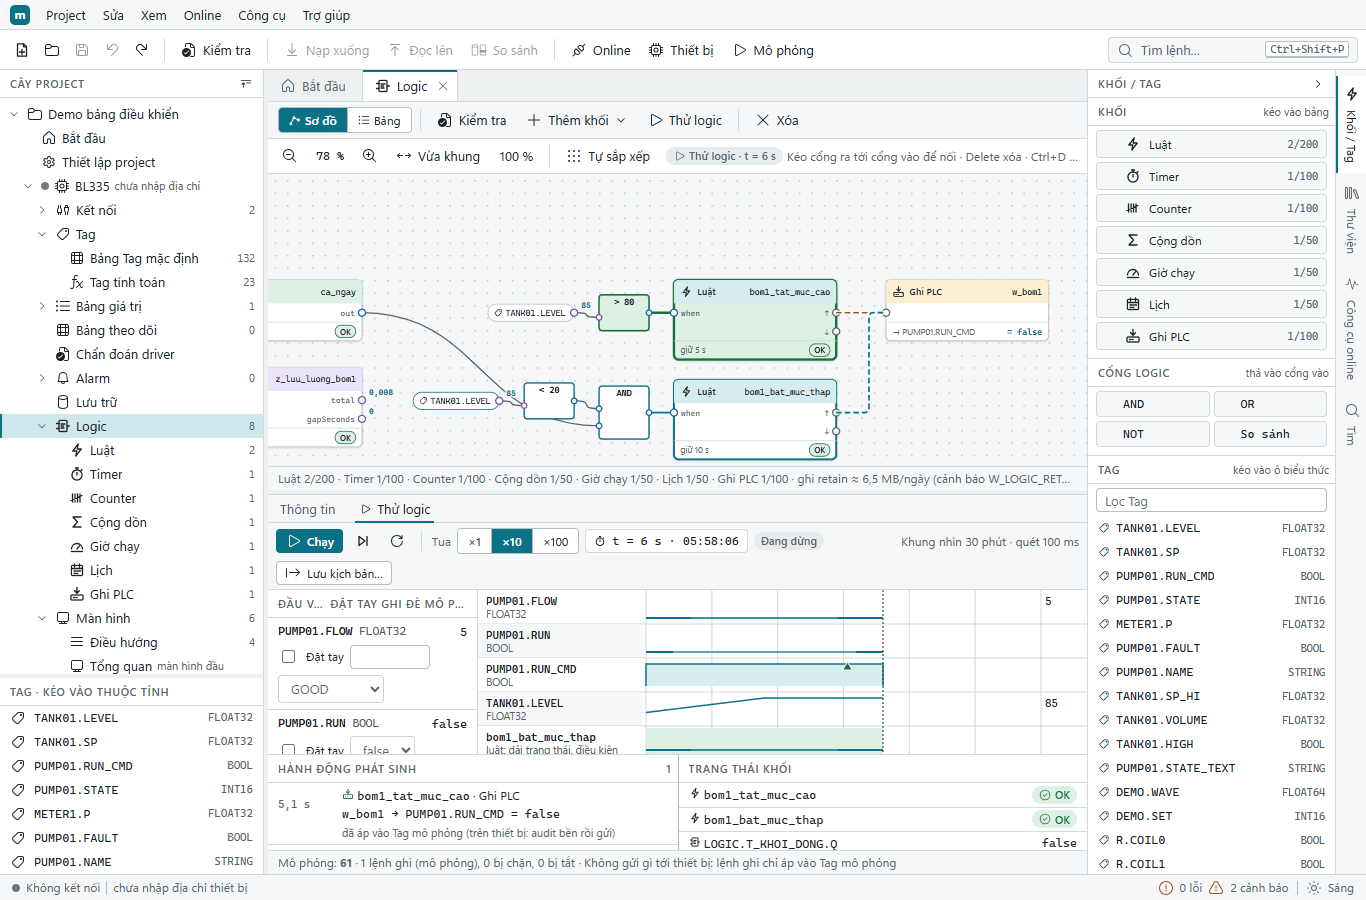
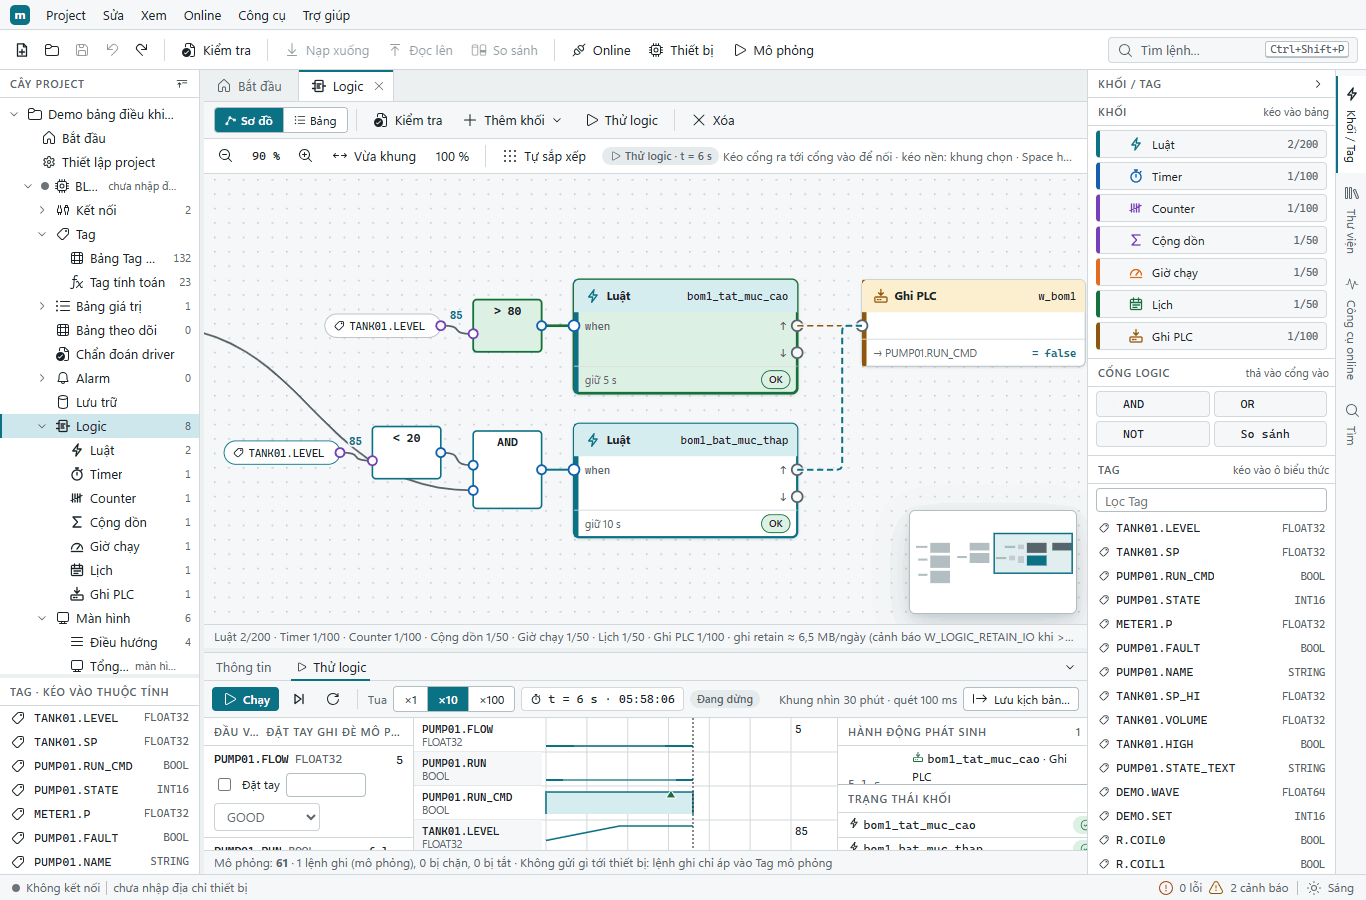
docs(015): hướng dẫn chọn nhiều khối, khung dưới gập/mở, Vừa khung 90 %; chụp lại ảnh sơ đồ ở 90 %

diff --git a/docs/user/engineer-guide.md b/docs/user/engineer-guide.md
@@ -320,11 +320,13 @@ Sơ đồ không đổi định dạng `logic.json`. Vị trí khối lưu riên
 
 - **Thêm khối**: kéo khối từ task card **Khối / Tag** vào sơ đồ (đặt ở chỗ thả), hoặc **Thêm khối** / Insert (đặt giữa vùng nhìn).
 - **Dời khối**: kéo khối (căn lưới 16 px, giữ Alt để dời tự do) hoặc phím mũi tên (16 px, Shift: 64 px). **Tự sắp xếp** xếp lại mọi khối từ trái sang phải theo phụ thuộc.
+- **Chọn nhiều khối**: Shift+bấm từng khối, hoặc kéo khung trên nền; Ctrl+A chọn hết, Esc bỏ chọn nhóm. Kéo, mũi tên, Delete, Ctrl+D áp cho cả nhóm, mỗi thao tác một bước hoàn tác.
 - **Nối dây**: kéo từ cổng ra (Tag hoặc đầu ra khối) tới cổng vào hoặc chân của cổng logic: Studio thay đúng phần biểu thức đó bằng tên Tag. Kéo ↑/↓ của luật tới mục Ghi PLC thêm hành động Ghi PLC (giá trị cho phép đầu tiên), tới Tag đích thêm Đặt Tag `true`. Kéo một Tag từ task card thả vào cổng vào cũng nối. Khi đang kéo, cổng khác kiểu mờ đi.
 - **Cổng logic**: kéo **AND**, **OR**, **NOT**, **So sánh** ở task card thả vào một cổng vào để bọc biểu thức hiện có (ví dụ `(x) && true`), rồi nối Tag vào chân còn trống.
 - **Xóa dây**: nhấp dây rồi Delete (bỏ toán hạng khỏi AND/OR, cổng vào của khối thành trống). **Xóa khối**: Delete; **Nhân bản**: Ctrl+D (đầu ra theo id mới). Mỗi thao tác hoàn tác được bằng một lần Ctrl+Z.
 - Nhấp một khối (hoặc Tab tới nó) để sửa ở **Inspector** như ở Bảng; Enter đưa con trỏ vào ô Id. Nhấp cổng logic hay hộp Tag đưa con trỏ vào đúng ô biểu thức.
-- **Zoom**: Ctrl + lăn chuột, nút − / + (phím − +), **Vừa khung** (phím 0), **100 %**; kéo nền hoặc lăn chuột để dời. Bản đồ nhỏ ở góc phải dưới: nhấp để tới vùng đó.
+- **Zoom**: Ctrl + lăn chuột, nút − / + (phím − +), **Vừa khung** (phím 0; không thu dưới 90 % để chữ còn đọc được, sơ đồ lớn hơn thì cuộn), **100 %**; lăn chuột, giữ Space rồi kéo, hoặc kéo bằng nút giữa để dời. Bản đồ nhỏ ở góc phải dưới: nhấp để tới vùng đó.
+- **Khung dưới** (Inspector, Thông tin, Thử logic): kéo thanh chia để đổi chiều cao; nút ˅ ở góc phải hoặc Ctrl+J gập/mở (Studio nhớ chiều cao). Mở **Thử logic** ở Sơ đồ, khung dưới tự thấp lại để vùng vẽ còn ít nhất 55 % chiều cao.
 - **Lỗi** của bộ kiểm tra hiện ngay trên sơ đồ: khối có lỗi viền đỏ, cổng vào và dây của biểu thức lỗi màu đỏ, Tag không có trong project là hộp viền đứt đỏ; danh sách vẫn ở tab **Thông tin**, nhấp đúp một dòng để chọn khối trên sơ đồ.
 - **Thử logic** và **Online**: sơ đồ hiện giá trị sống. Dây và cổng BOOL đang TRUE màu xanh lá, giá trị số ghi cạnh cổng ra, khối vừa bắn sáng lên, timer đang đếm hiện "còn x s", mục Ghi PLC hiện giá trị Tag đích; mỗi khối có chip trạng thái (OK, SUSPENDED, THROTTLED, DISABLED; Online kèm số lần bắn).
 
